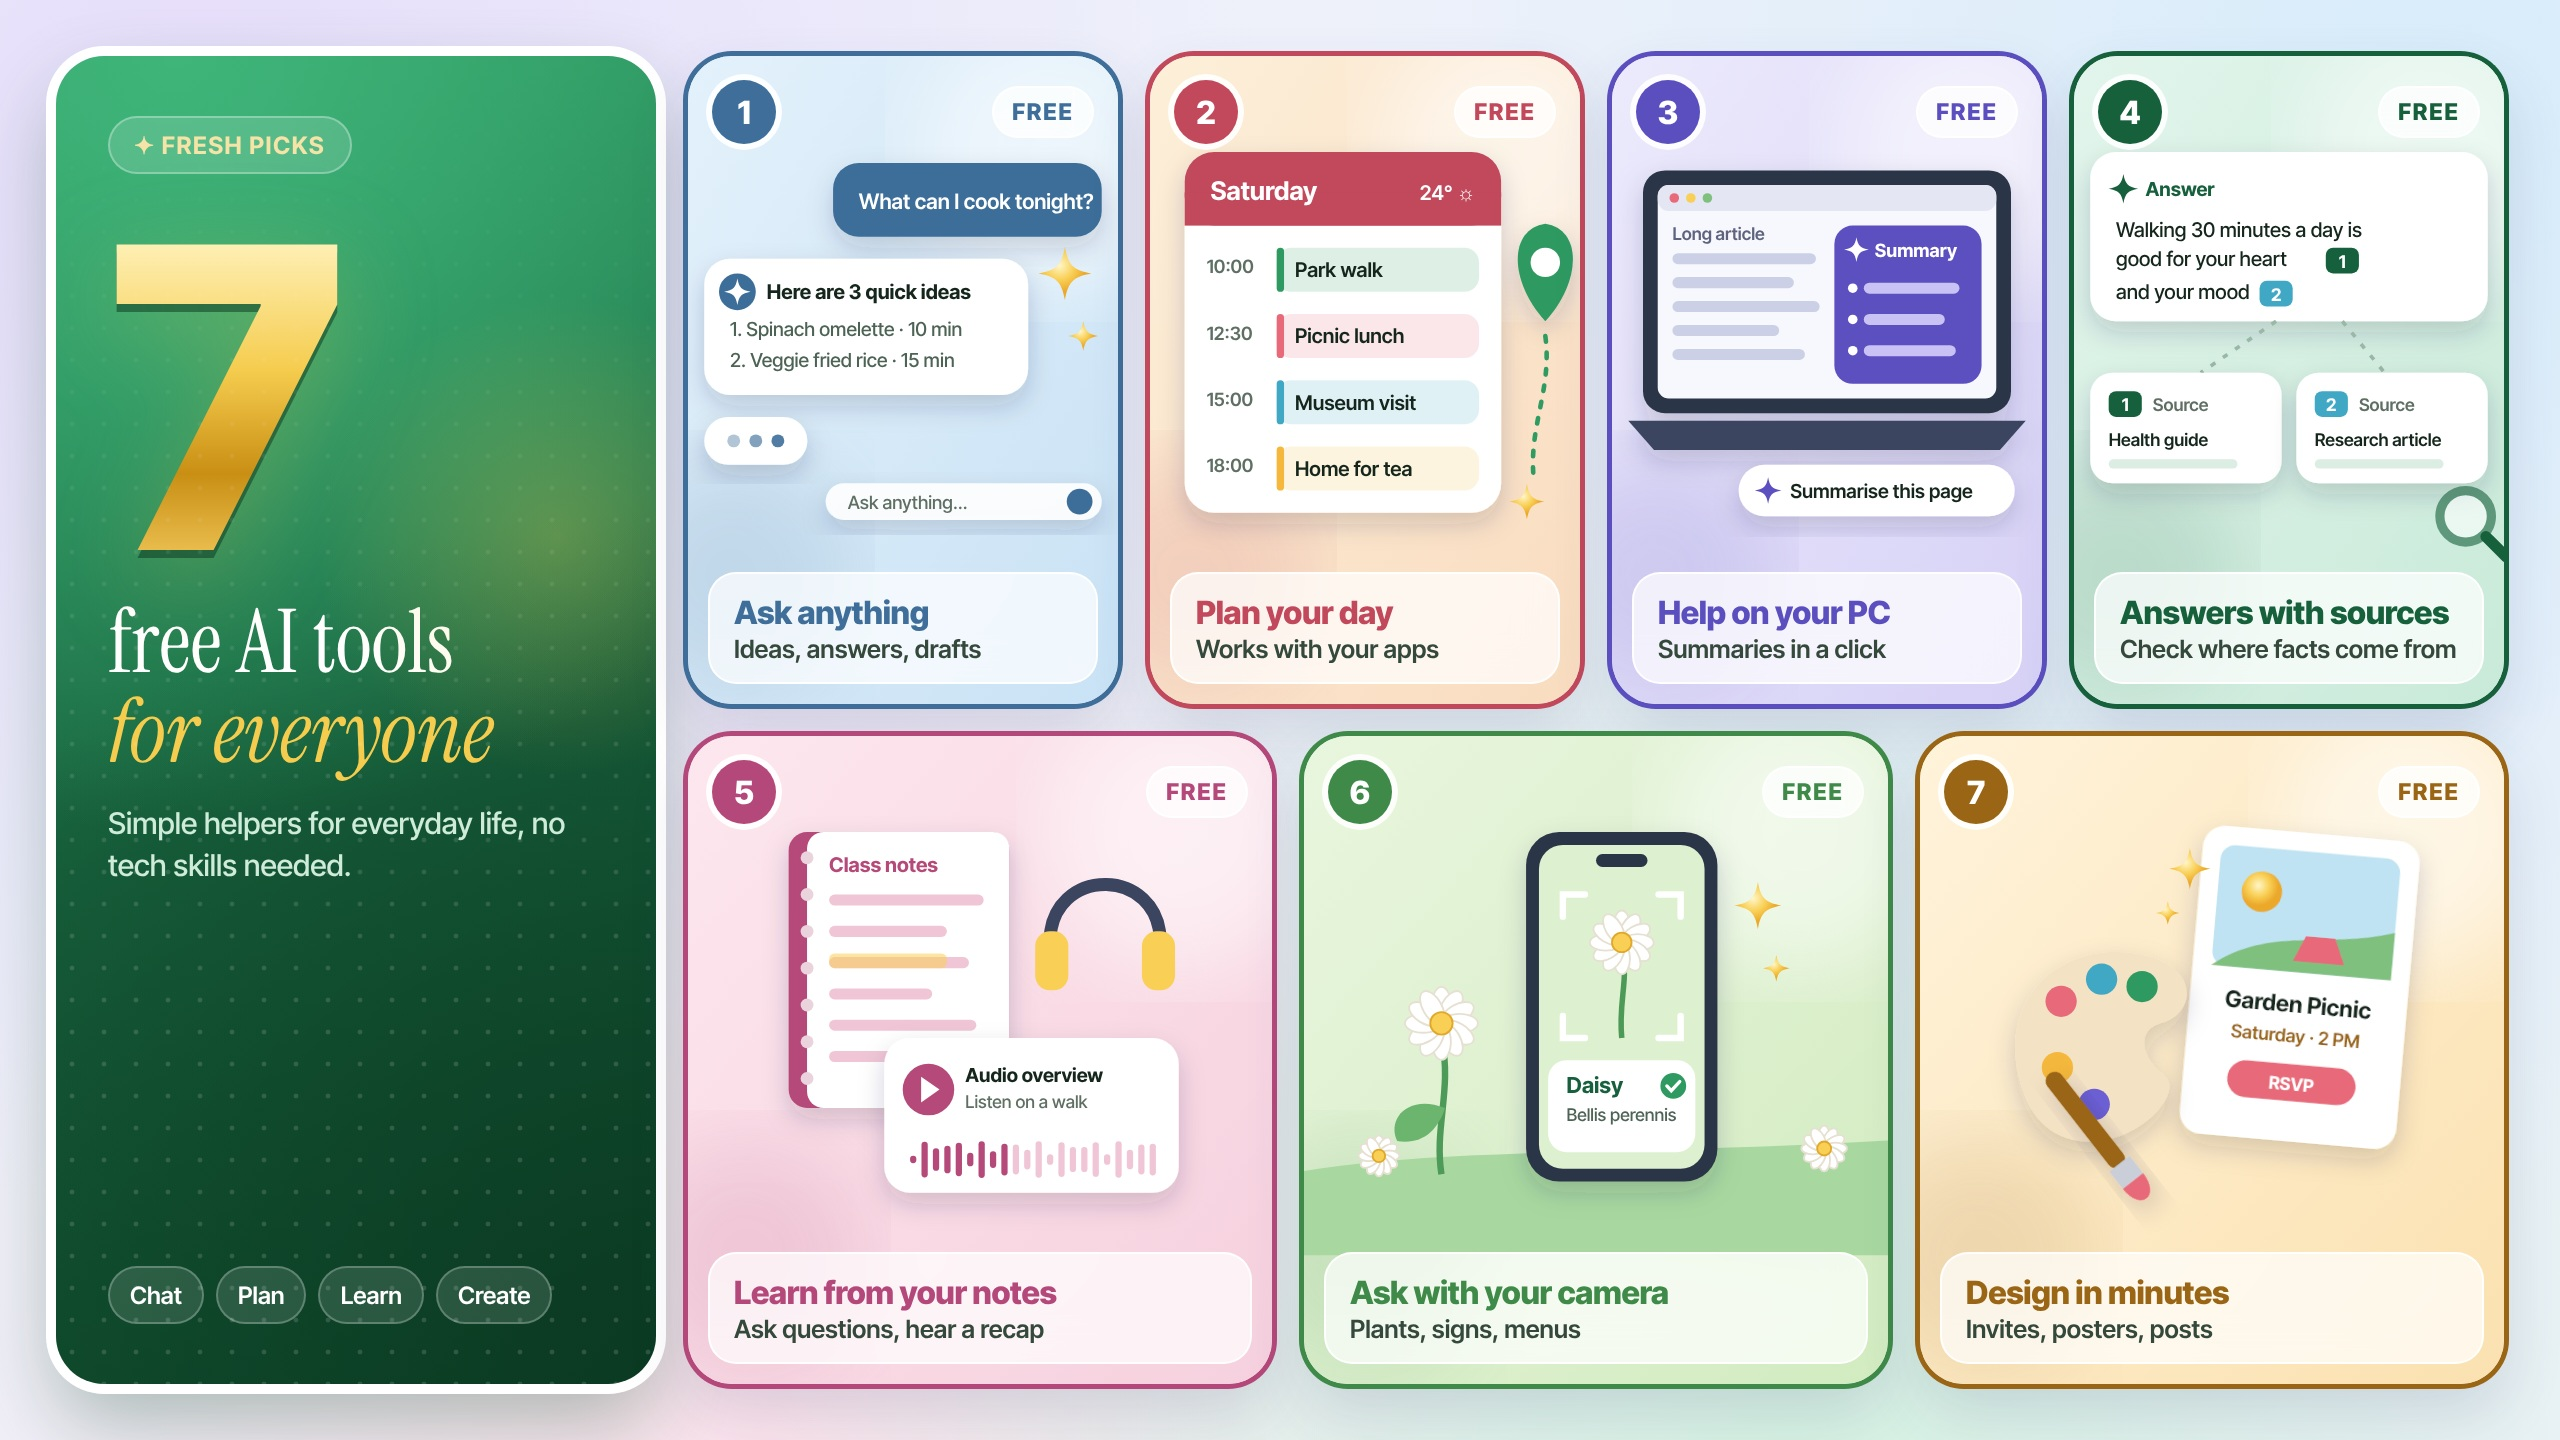
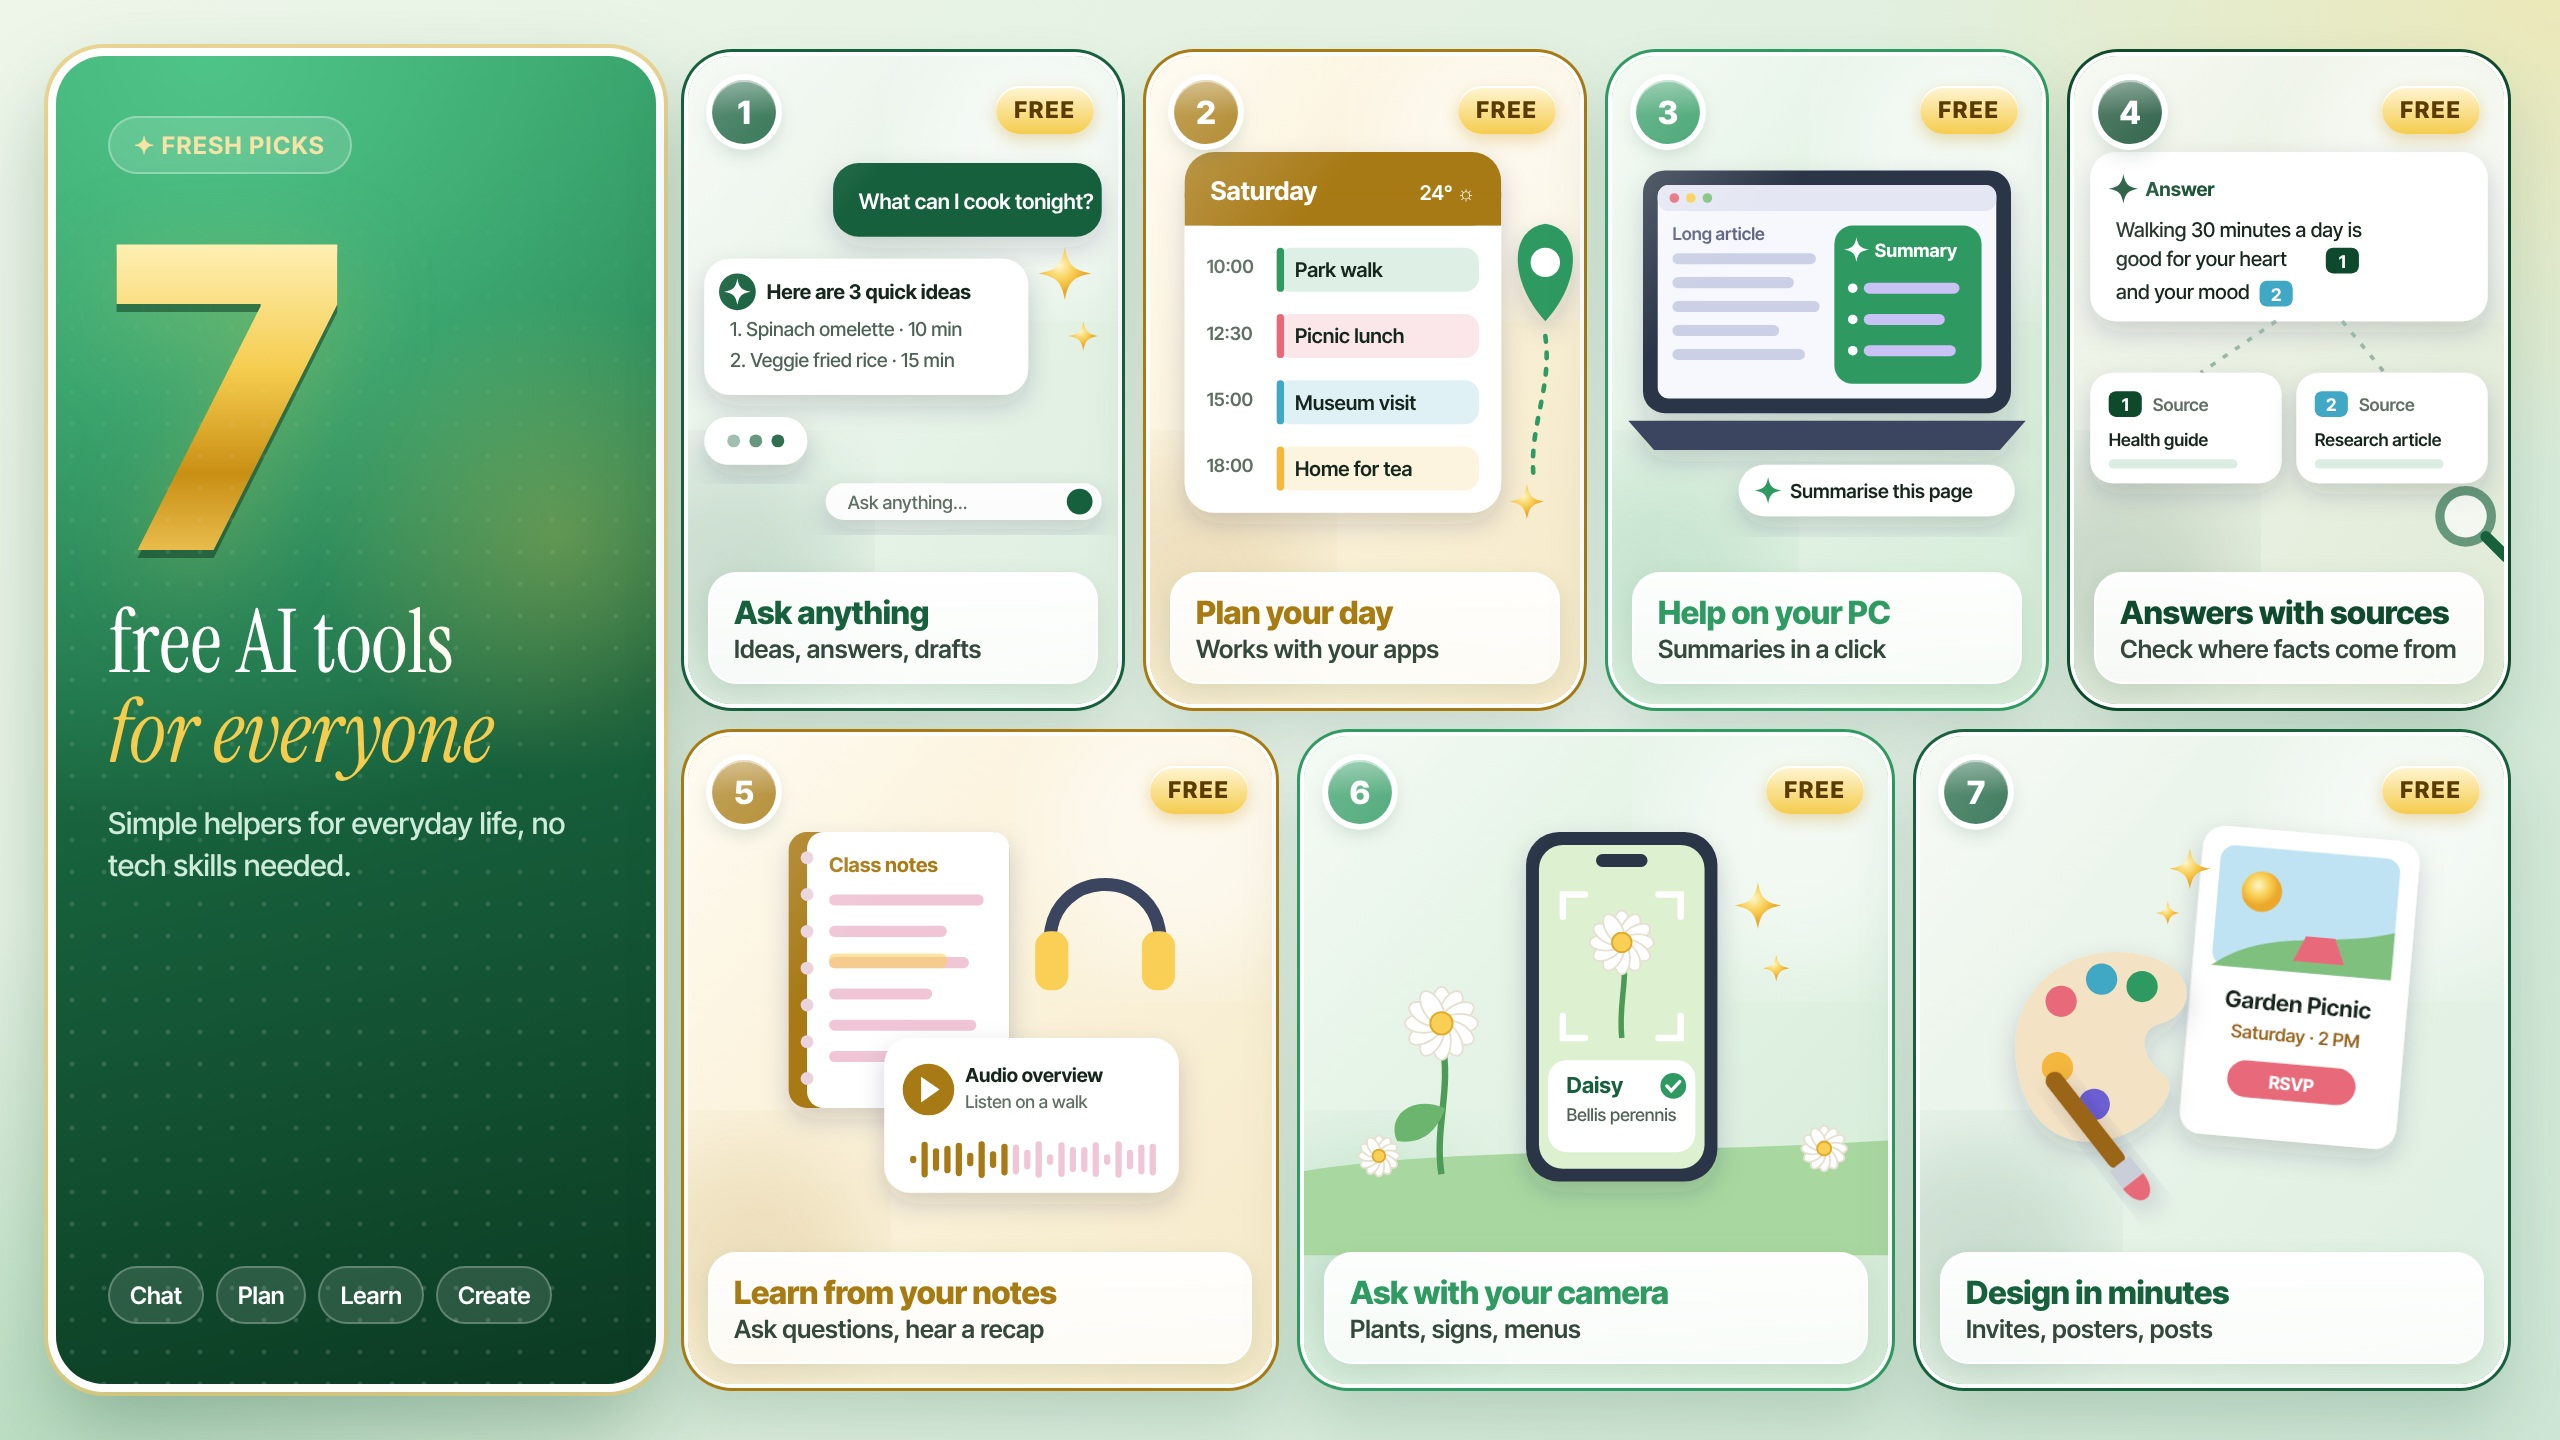
Top 7 tools cover: sage background with forest and gold accents
Claude-Session: https://claude.ai/code/session_011joVF6bbyZDhpZpCEdrVDq

Changed region(s): [[0.0, 0.0, 1.0, 1.0], [0.3438, 0.7188, 0.4062, 0.8125]]

diff --git a/src/content/posts/top-7-ai-tools.md b/src/content/posts/top-7-ai-tools.md
@@ -5,7 +5,7 @@ pubDate: 2026-11-05
 topic: "AI Toolkit"
 level: Beginner
 cover: /images/cover-top-7-tools.jpg
-coverAlt: "A bento-style collage: a green title card with a big gold 7 reading 'free AI tools for everyone', beside seven numbered tiles marked free, each showing a small app scene: a chat suggesting quick dinners, a Saturday plan with a map pin, a laptop summarising a page, an answer with numbered sources, class notes with an audio overview, a phone camera identifying a daisy, and a garden picnic invitation with a paint palette."
+coverAlt: "A bento-style collage on a soft sage background: a glossy green title card with a big gold 7 reading 'free AI tools for everyone', beside seven numbered tiles marked free, each showing a small app scene: a chat suggesting quick dinners, a Saturday plan with a map pin, a laptop summarising a page, an answer with numbered sources, class notes with an audio overview, a phone camera identifying a daisy, and a garden picnic invitation with a paint palette."
 takeaways:
   - "You only need one or two AI tools to start, and all seven here have a free version."
   - "Pick by job: chat assistants for ideas, Perplexity for sources, NotebookLM for notes, Lens for the world around you, Canva for design."
